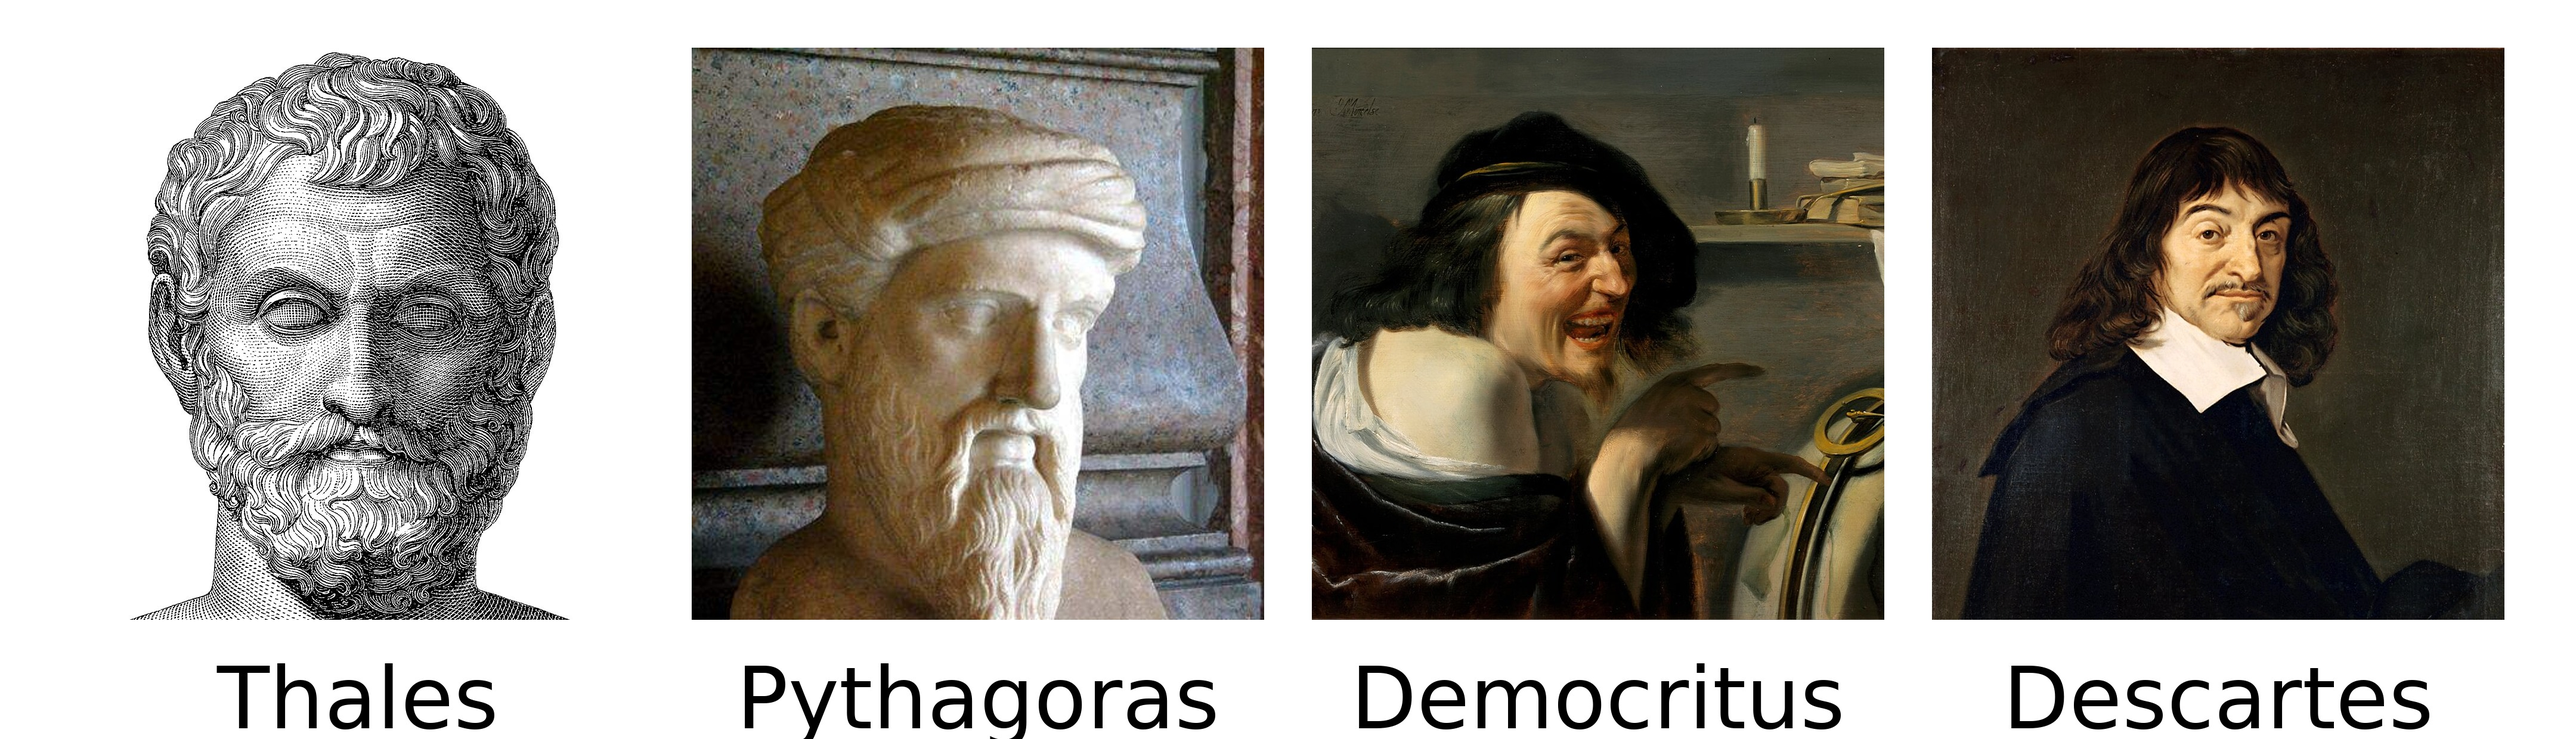
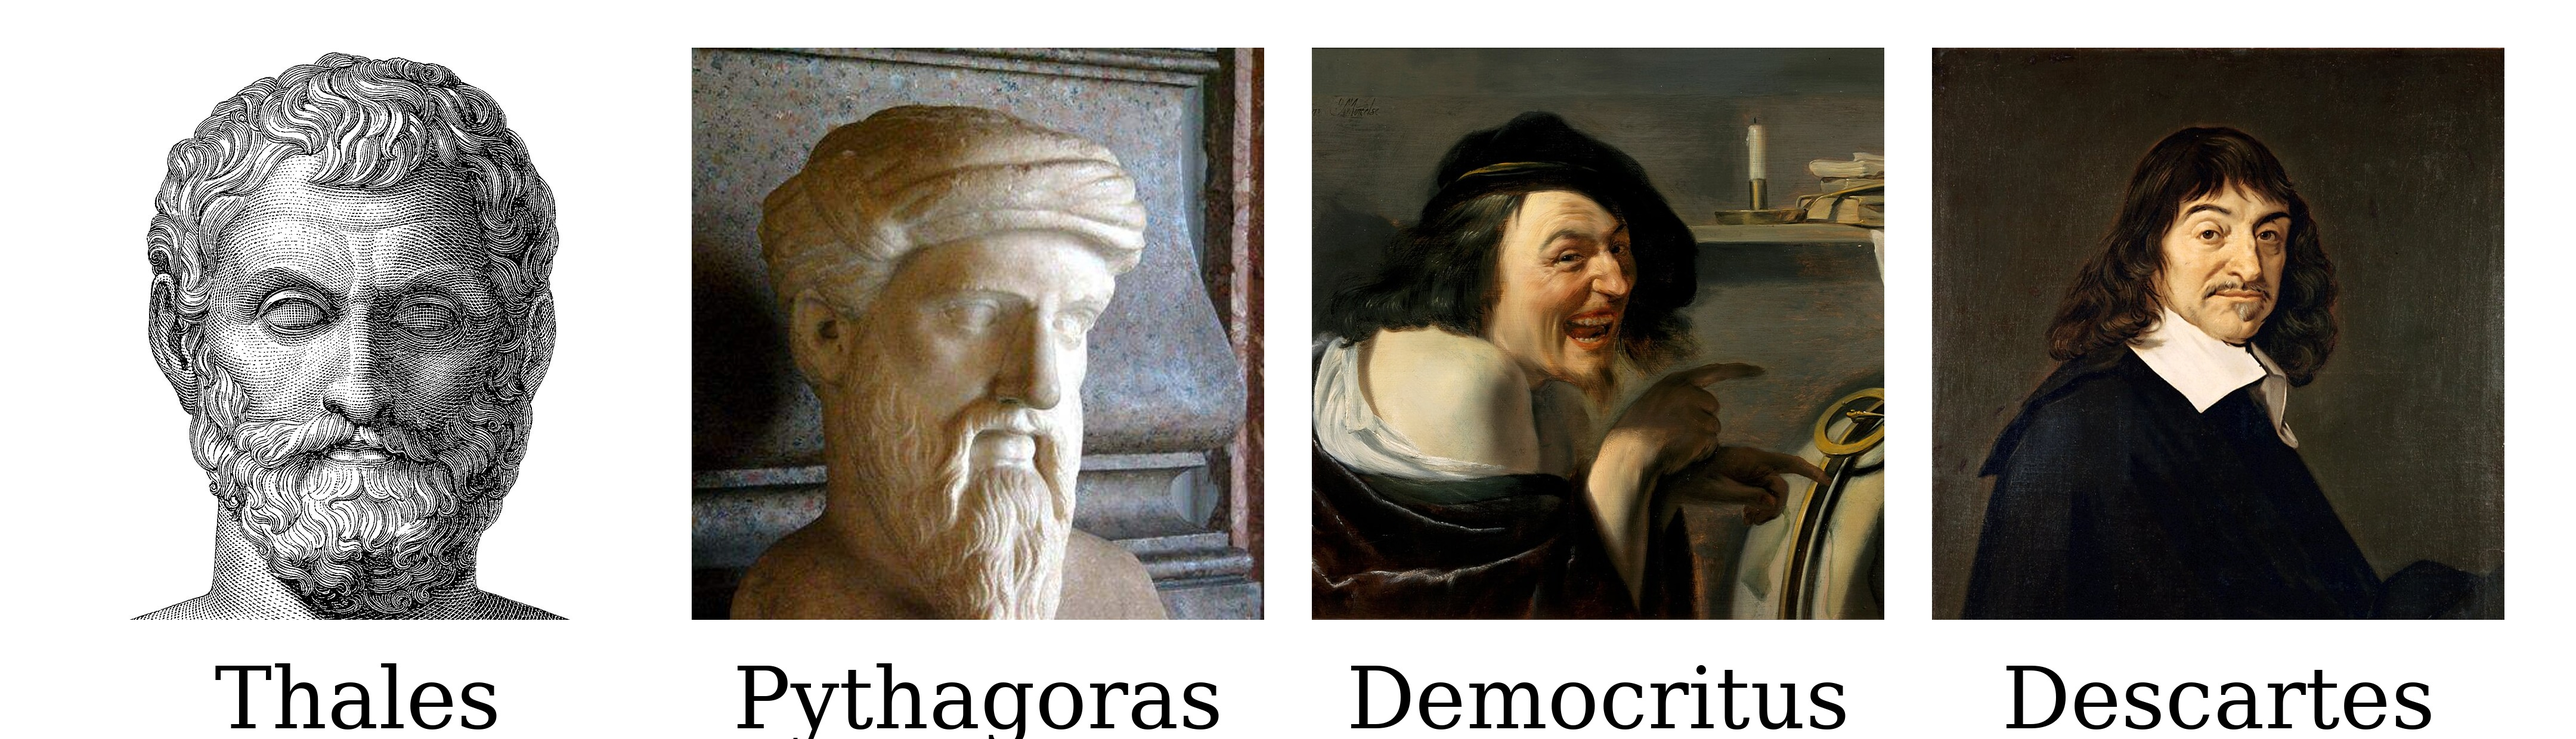
Fix round-1 review findings in the intro deck
Blockers and majors from the three-agent review:

- the pollinator slide's figcaption answered the question the slide asked
- the xz detection slide, the Part 2 payoff slide and "knowing the parts is
  not knowing the system" each stated new content with nothing to look at;
  each gets a figure (xz_3, same_shape, parts_vs_relations)
- the three past-project screenshots carried node sizes, yellow callouts and
  an EEG head diagram this deck cannot explain, with labels that do not read
  at slide scale; the projects are now named in words on one slide
- the last movement was pure logistics, so it now closes on a question that
  reaches back to the Part 2 activity

Minors: Mexico City to Madrid is nine thousand km, not eight; Descartes gave
a method rather than a substance, so the philosophers slide no longer calls
the four claims answers to one question; the EngiNet name slide is set as a
title; the EngiNet phone number no longer breaks across lines; the grading
figure and the assignments slide use the same word.

Gate: all automated checks pass, 52 slides.

diff --git a/docs/slide/intro/figures/make_figures.py b/docs/slide/intro/figures/make_figures.py
@@ -373,6 +373,46 @@ def fig_xz_2():
     return f
 
 
+def fig_xz_3():
+    """The only visible symptom sat at the far end of the chain."""
+    f = Fig("xz_3.png", 1080, 270, 1080)
+    centers, _ = _chain(f, 70)
+    f.text(centers[3], 200, "half a second slower", anchor="center", color=ACCENT2)
+    f.seg(centers[3], 190, centers[3], 122, color=ACCENT2, lw=3, arrow=True)
+    return f
+
+
+def fig_same_shape():
+    """One shape, three substances."""
+    f = Fig("same_shape.png", 1080, 300, 1080)
+    motif = [(0, 80), (120, 160), (240, 80), (120, 0)]
+    for ox, label in ((90, "flights"), (420, "loans"), (750, "dependencies")):
+        pts = [(ox + x, 100 + y) for x, y in motif]
+        for a, b in zip(pts, pts[1:] + pts[:1]):
+            f.seg(*a, *b, color=GRAY, lw=2.5)
+        for p in pts:
+            f.disc(*p)
+        f.text(ox + 120, 45, label, anchor="north", color=GRAY)
+    return f
+
+
+def fig_parts_vs_relations():
+    """The same parts, with and without what runs between them."""
+    f = Fig("parts_vs_relations.png", 520, 360, 537)
+    xs = [70, 190, 310, 430]
+    for p in [(x, 270) for x in xs]:
+        f.disc(*p)
+    f.text(250, 320, "parts alone", anchor="south", color=GRAY)
+    low = [(x, 100) for x in xs]
+    for a, b in zip(low, low[1:]):
+        f.seg(*a, *b, color=ACCENT2, lw=4)
+    f.seg(*low[0], *low[2], color=ACCENT2, lw=4)
+    for p in low:
+        f.disc(*p)
+    f.text(250, 45, "parts in relation", anchor="north", color=ACCENT2)
+    return f
+
+
 def fig_pollinator():
     """Who pollinates whom: a network drawn by evolution."""
     f = Fig("pollinator.png", 520, 340, 537)
@@ -421,7 +461,9 @@ def fig_konigsberg():
     return f
 
 
-GRADE = [("Quiz", 10), ("Lecture", 10), ("Homework", 20), ("Exam", 30), ("Project", 30)]
+# The labels are the deck's own words for these items: "Lecture" is the Student Lecture
+# slide, "Assignments" the GitHub Classroom slide. Rename here and there together.
+GRADE = [("Quiz", 10), ("Lecture", 10), ("Assignments", 20), ("Exam", 30), ("Project", 30)]
 GRADE_FILL = [ACCENT, ACCENT2, ACCENT3, GRAY, INK]
 
 
@@ -453,7 +495,7 @@ def fig_philosophers():
     canvas = Image.new("RGB", (w, h), "white")
     font = ImageFont.truetype(
         os.path.join(os.path.dirname(__import__("matplotlib").__file__),
-                     "mpl-data/fonts/ttf/DejaVuSans.ttf"), 36 * PX_PER_BP)
+                     "mpl-data/fonts/ttf/DejaVuSerif.ttf"), 36 * PX_PER_BP)
     d = ImageDraw.Draw(canvas)
     for i, (src, label) in enumerate(names):
         im = Image.open(os.path.join(src_dir, src)).convert("RGB")
@@ -474,8 +516,9 @@ def fig_philosophers():
     return canvas
 
 
-FIGURES = [fig_flightpath, fig_interbank_1, fig_interbank_2, fig_xz_1, fig_xz_2,
-           fig_pollinator, fig_regular_graph, fig_konigsberg, fig_grading]
+FIGURES = [fig_flightpath, fig_interbank_1, fig_interbank_2, fig_xz_1, fig_xz_2, fig_xz_3,
+           fig_same_shape, fig_parts_vs_relations, fig_pollinator, fig_regular_graph,
+           fig_konigsberg, fig_grading]
 
 
 def main():

diff --git a/docs/slide/intro/check_render.py b/docs/slide/intro/check_render.py
@@ -18,6 +18,5 @@ run(
         "airline_routes.jpg", "brain_tracts.jpg", "deadlift.jpg",
         "digesting_duck.jpg", "euler.jpg", "internet_map.jpg", "lehman.jpg",
         "pen_paper.jpg", "von_neumann.jpg", "philosophers.jpg",
-        "sci-topic-net.png", "ecog.png", "super-charger.png",
     ],
 )

diff --git a/docs/slide/intro/figures/prep_photos.py b/docs/slide/intro/figures/prep_photos.py
@@ -32,9 +32,6 @@ PHOTOS = {
     "euler.jpg": ("cols", 0.14),
     "deadlift.jpg": ("cols", 0.45),
     "pen_paper.jpg": ("cols", 0.5),
-    "sci-topic-net.png": ("cols", 0.5),
-    "ecog.png": ("cols", 0.5),
-    "super-charger.png": ("cols", 0.5),
 }
 
 

diff --git a/docs/slide/intro/intro.md b/docs/slide/intro/intro.md
@@ -51,15 +51,15 @@ Open on the outbreak, not on definitions. The whole first part is one story.
 
 ---
 
-<!-- _class: mid -->
+<!-- _class: lead -->
 
-## EngiNet
+<div class="eyebrow">Binghamton University</div>
+
+# EngiNet™
 
 <hr>
 
-Binghamton University EngiNet™
-
-State University of New York
+<div class="sub">State University of New York</div>
 
 ---
 
@@ -83,9 +83,10 @@ storage and retrieval systems, without written approval from the copyright owner
 
 <hr>
 
-- EngiNet office: Janice Kinzer · enginet@binghamton.edu · 1-800-478-0718 or 607-777-4965
+- EngiNet office: Janice Kinzer, enginet@binghamton.edu
+- EngiNet by phone: 1-800-478-0718, or 607-777-4965
 - Media production: Rafia Rahman
-- Instructor: Sadamori Kojaku · skojaku@binghamton.edu · 607-777-5039
+- Instructor: Sadamori Kojaku, skojaku@binghamton.edu, 607-777-5039
 
 ---
 
@@ -136,7 +137,7 @@ The 2009 H1N1 pandemic starts in Mexico. Name the first country outside Mexico w
 
 <hr>
 
-Spain is eight thousand kilometres from Mexico City. Guatemala shares a border with Mexico, and was reached later.
+Spain is nine thousand kilometres from Mexico City. Guatemala shares a border with Mexico, and was reached later.
 
 ---
 
@@ -277,29 +278,33 @@ Whoever maintains the first box in that chain controls everything downstream of 
 
 ---
 
-<!-- _class: mid -->
-
 ## It was caught by half a second
 
 <hr>
 
-* Andres Freund noticed his SSH logins had become 0.5 seconds slower.
-* He went looking, and found the backdoor before it reached stable releases.
-* Nobody audited the trust relationship; a stopwatch caught it.
+<div class="fig">
+
+![](figures/xz_3.png)
+<figcaption>Andres Freund noticed logins to a test machine had slowed, went looking, and found the backdoor before it reached a stable release. Nobody had audited the trust; a stopwatch caught it.</figcaption>
+
+</div>
 
 <a href="https://www.youtube.com/watch?v=aoag03mSuXQ">How the xz backdoor worked (video)</a>
 
 ---
 
-<!-- _class: mid -->
-
 ## Same shape, three worlds
 
 <hr>
 
-A virus travels flights. A loss travels loans. A backdoor travels dependencies.
-
 Different material, one question: **who is connected to whom?**
+
+<div class="fig">
+
+![](figures/same_shape.png)
+<figcaption>A virus travels the first, a loss the second, a backdoor the third. The reasoning that works on one works on the others.</figcaption>
+
+</div>
 
 ---
 
@@ -342,7 +347,7 @@ Which plant here is safest? Which is one extinction away from trouble?
 <div class="fig">
 
 ![](figures/pollinator.png)
-<figcaption>Lines are visits. The middle plant is served by three species, the outer two by one each.</figcaption>
+<figcaption>A line means that insect visits that plant.</figcaption>
 
 </div>
 </div>
@@ -430,7 +435,7 @@ No two neighbourhoods look alike, so one proof no longer covers all of them.
 
 <hr>
 
-Water, number, atoms, method: four answers to *what is everything made of?*
+Water, number, atoms, method: four attempts to reduce the world to something simpler.
 
 <div class="fig">
 
@@ -485,16 +490,26 @@ Water, number, atoms, method: four answers to *what is everything made of?*
 
 ---
 
-<!-- _class: mid -->
-
 ## Knowing the parts is not knowing the system
 
 <hr>
+
+<div class="cols">
+<div>
 
 * Every neuron, but not the dream.
 * Every person, but not the protest.
 * Parts never act alone; they act on each other.
 * **The relationships are the object of study.**
+
+</div>
+<div class="fig">
+
+![](figures/parts_vs_relations.png)
+<figcaption>Same four parts in both rows. Only the lower row can carry anything between them.</figcaption>
+
+</div>
+</div>
 
 ---
 
@@ -589,6 +604,8 @@ How the course is built, and why it is built that way.
 </div>
 
 ---
+
+<!-- _class: mid -->
 
 ## Every module opens on paper
 
@@ -704,63 +721,15 @@ One square is one percent.
 
 ---
 
-## Example: the network of scientific topics
+<!-- _class: mid -->
+
+## Three projects from previous years
 
 <hr>
 
-<div class="cols">
-<div>
-
-Which research topics get cited together, and which papers sit on the bridge between two fields?
-
-</div>
-<div class="fig">
-
-![](figures/sci-topic-net.png)
-<figcaption>Topics as nodes, shared citations as links.</figcaption>
-
-</div>
-</div>
-
----
-
-## Example: correlated brain activity
-
-<hr>
-
-<div class="cols">
-<div>
-
-Electrodes become nodes, and a link means two recordings rise and fall together.
-
-</div>
-<div class="fig">
-
-![](figures/ecog.png)
-<figcaption>One recording session, redrawn as a network of co-varying signals.</figcaption>
-
-</div>
-</div>
-
----
-
-## Example: the Tesla supercharger network
-
-<hr>
-
-<div class="cols">
-<div>
-
-Chargers as nodes, drivable hops as links: where does one new charger help the most drivers?
-
-</div>
-<div class="fig">
-
-![](figures/super-charger.png)
-<figcaption>Charger locations across the United States, by model served.</figcaption>
-
-</div>
-</div>
+* A map of research topics: which fields cite each other, and which papers sit on the bridge between two of them.
+* Brain recordings as a network: electrodes are the nodes, and a link means two signals rise and fall together.
+* The Tesla supercharger network: chargers are the nodes, drivable hops the links, and the question was where one more charger helps most.
 
 ---
 
@@ -797,6 +766,20 @@ Chargers as nodes, drivable hops as links: where does one new charger help the m
 - AI tools are allowed for learning; cite them when you use them in an assignment.
 - Back up your code; a lost laptop is not an extension.
 - Accommodations are available; academic dishonesty is not.
+
+---
+
+<!-- _class: mid -->
+
+## Before you go
+
+<hr>
+
+Earlier you each wrote down three networks you belong to.
+
+* Which of them would you want to study for the project?
+* What would you have to measure before you could say anything about it?
+* *Bring one answer to the next class.*
 
 ---
 

diff --git a/docs/slide/intro/review/CHECKPOINT.md b/docs/slide/intro/review/CHECKPOINT.md
@@ -1,0 +1,29 @@
+# Checkpoint
+
+## Round 1
+
+- Tier 0 gate: **pass** (`python3 -m gatelib review .` exit 0, 52 slides, 0 blockers/majors/minors;
+  two 3px-ink warnings on slides 11 and 19 are arrowheads, not glyphs).
+- Committed as `e17d8363`.
+- Tier 1/2 LLM review dispatched to three sonnet agents over slides 1-18, 19-35, 36-52.
+
+### Lead's own findings, to fold into FIXES_R1
+
+- Slide 29 (philosophers): the montage's names are set in DejaVu Sans while the whole deck is
+  serif. Redraw with DejaVu Serif.
+- Slide 43 (grading): the figure labels the third block "Homework", but slide 41 is titled
+  "Assignments". Same thing, two names.
+
+### Known deviations from the archive deck (intended, not findings)
+
+- Exam week and every final-project date are TBD placeholders.
+- No bonus points.
+- No AI-tutor slide, no LLM Dojo, no Network of the Week.
+- The three scanned EngiNet slides were reset as text: at slide scale the scans are unreadable.
+  Staff names come from the 2024 scan and should be confirmed before teaching.
+
+## Infrastructure note
+
+`~/.claude/skills/slide/gatelib/cli.py` invoked `marp` without `--no-stdin`, so every render
+hung forever instead of finishing (25 minutes on the first run). Patched in place; the flag is
+what `REVIEW_PLAYBOOK.md` already prescribes.
